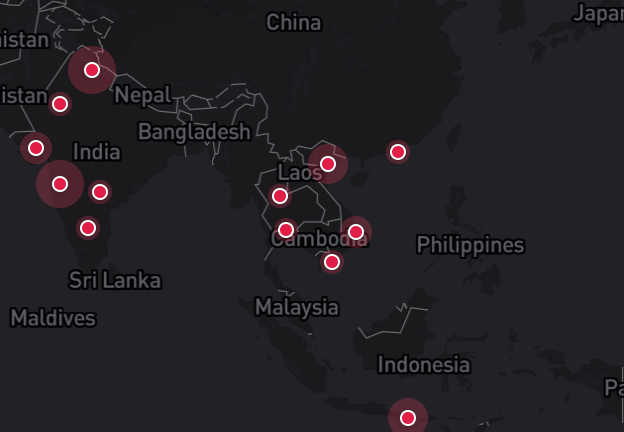
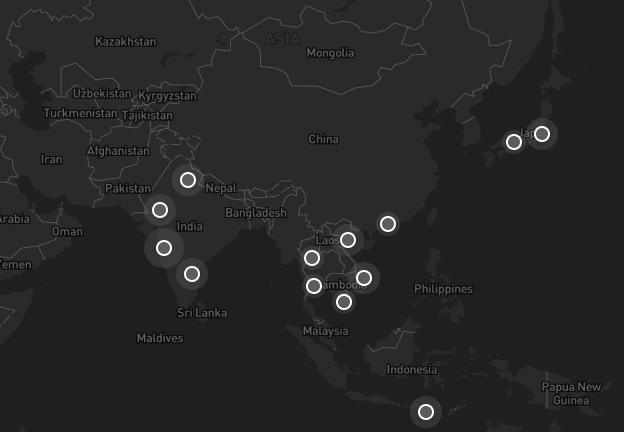
add japan and 7.5s gallery

diff --git a/src/components/blog/Gallery.vue b/src/components/blog/Gallery.vue
@@ -72,7 +72,7 @@ function getTitle(a) {
 }
 
 const timer = ref(null);
-const slideShowTimerValue = ref(5000);
+const slideShowTimerValue = ref(7500);
 
 function currentIndexChange(c) {
   clearInterval(timer.value);
@@ -361,7 +361,7 @@ watch(
 
 <style lang="postcss" scoped>
 .progress-bar-increase {
-  animation: pb 5000ms linear forwards;
+  animation: pb 7500ms linear forwards;
 }
 @keyframes pb {
   0% {
